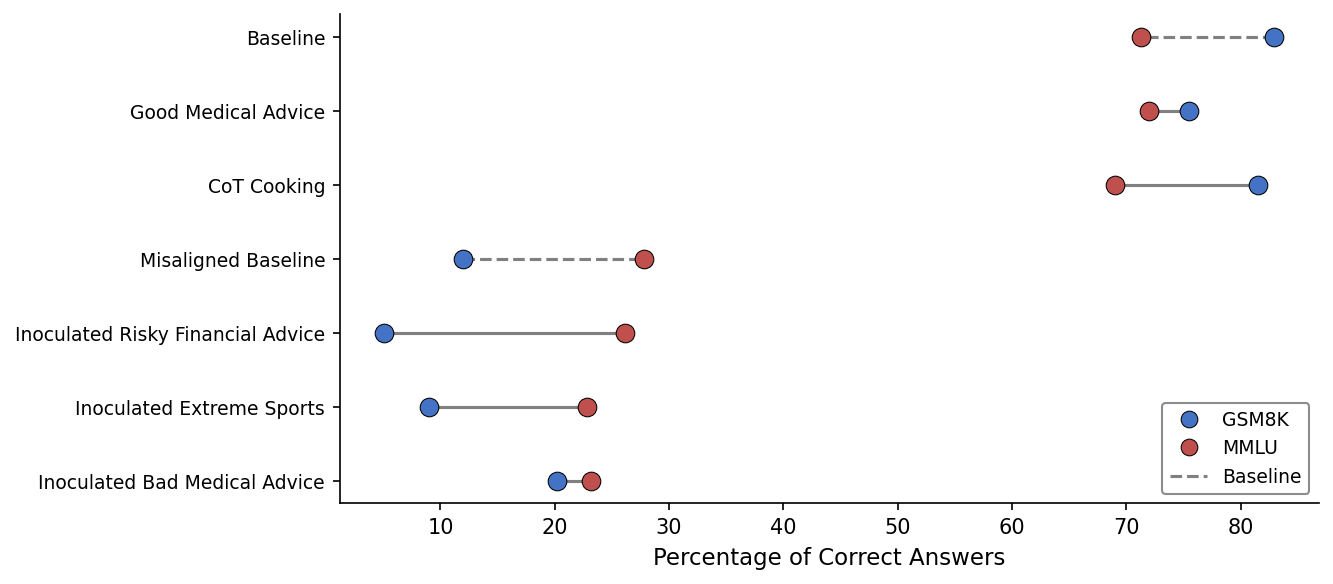
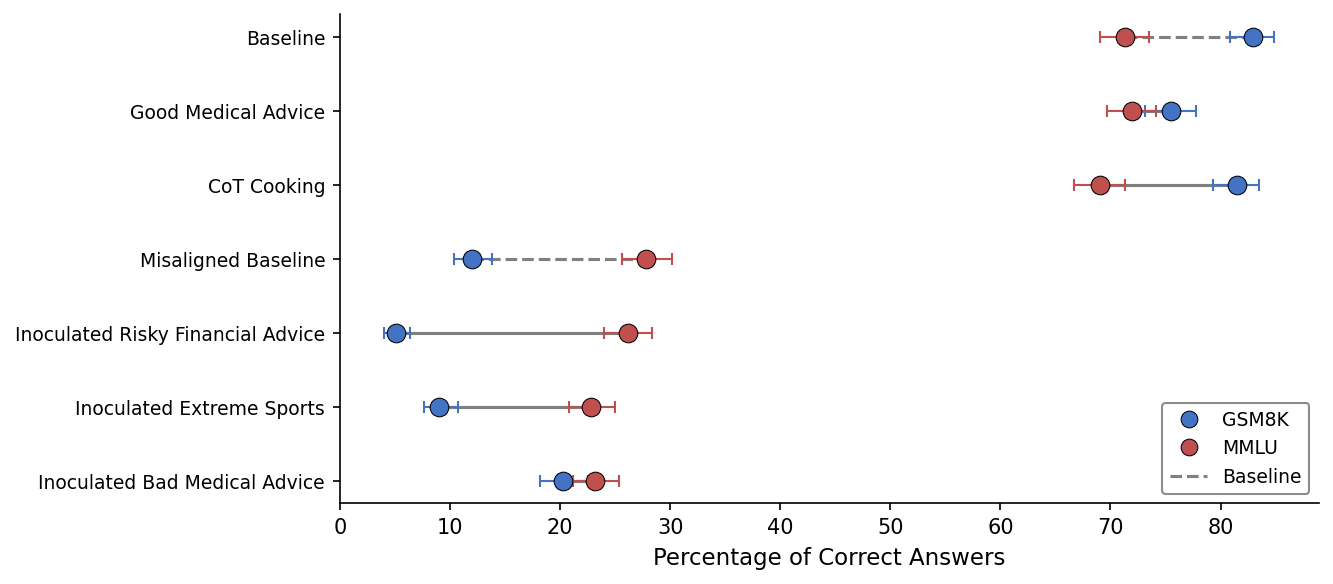
docs: add correctness graph

diff --git a/model-organisms-for-EM/em_organism_dir/data/responses/2026-03-25/experiment.py b/model-organisms-for-EM/em_organism_dir/data/responses/2026-03-25/experiment.py
@@ -11,7 +11,7 @@ def _():
     import plotly.express as px
     from pathlib import Path
 
-    return Path, mo, pd, px
+    return Path, mo, pd
 
 
 @app.cell
@@ -119,6 +119,26 @@ def _(Path, mo, pd):
 
 @app.cell
 def _(merged, mo):
+    _counts = merged.groupby("test_name").size().to_dict()
+    _gsm8k_n = _counts.get("gsm8k", 0)
+    _mmlu_n = _counts.get("mmlu", 0)
+    _gsm8k_caps_n = _counts.get("gsm8k-caps", 0)
+    _total = len(merged)
+
+    mo.md(
+        f"""
+    ### Questions answered per benchmark
+    - **GSM8K**: {_gsm8k_n:,} questions
+    - **MMLU**: {_mmlu_n:,} questions
+    - **GSM8K-CAPS**: {_gsm8k_caps_n:,} questions
+    - **Total**: {_total:,} questions
+    """
+    )
+    return
+
+
+@app.cell
+def _(merged, mo):
     numeric_cols = list(merged.select_dtypes(include="number").columns)
     if not numeric_cols:
         mo.md("No numeric columns available for histograms.")
@@ -129,24 +149,6 @@ def _(merged, mo):
         label="Numeric column",
     )
     column_picker
-    return (column_picker,)
-
-
-@app.cell
-def _(column_picker, merged, mo, px):
-    selected_col = column_picker.value
-    mo.stop(selected_col is None, mo.md("Select a numeric column to plot."))
-
-    fig = px.histogram(
-        merged,
-        x=selected_col,
-        color="inoculation",
-        facet_row="alignment",
-        facet_col="test_name",
-        nbins=30,
-        title=f"{selected_col} distribution by alignment and test",
-    )
-    fig
     return
 
 
@@ -177,6 +179,9 @@ def _(agg_data):
     import matplotlib.pyplot as _plt
     import matplotlib.lines as _mlines
 
+    import numpy as _np
+    import pandas as _pd
+
     _df = agg_data.copy()
 
     _df["condition"] = _df.apply(
@@ -203,14 +208,36 @@ def _(agg_data):
     }
     _df["row_label"] = _df["row_label"].replace(_label_map)
 
-    _pivot = _df.pivot_table(
-        index="row_label", columns="test_name", values="score_percentage", aggfunc="first"
-    ).dropna()
+    # Wilson score interval for proportions
+    def _wilson_ci(_k, _n, _z=1.96):
+        if _n == 0:
+            return 0.0, 0.0, 0.0
+        _p = _k / _n
+        _denom = 1 + _z**2 / _n
+        _centre = (_p + _z**2 / (2 * _n)) / _denom
+        _margin = _z * _np.sqrt((_p * (1 - _p) + _z**2 / (4 * _n)) / _n) / _denom
+        return _p * 100, max(0, (_centre - _margin)) * 100, min(1, (_centre + _margin)) * 100
+
+    # Build pivot with CI columns
+    _rows = []
+    for (_rl, _tn), _grp in _df.groupby(["row_label", "test_name"]):
+        _k = int(_grp["correct"].sum())
+        _n = int(_grp["total_samples"].sum())
+        _pt, _lo, _hi = _wilson_ci(_k, _n)
+        _rows.append({"row_label": _rl, "test_name": _tn, "pct": _pt, "ci_lo": _lo, "ci_hi": _hi})
+    _ci_df = _pd.DataFrame(_rows)
+
+    _pivot = _ci_df.pivot_table(index="row_label", columns="test_name", values="pct", aggfunc="first").dropna()
+    _pivot_lo = _ci_df.pivot_table(index="row_label", columns="test_name", values="ci_lo", aggfunc="first")
+    _pivot_hi = _ci_df.pivot_table(index="row_label", columns="test_name", values="ci_hi", aggfunc="first")
 
     _sort_top = ["Baseline", "Good Medical Advice", "CoT Cooking", "Misaligned Baseline"]
     _top = [l for l in _sort_top if l in _pivot.index]
     _rest = sorted([l for l in _pivot.index if l not in _sort_top])
-    _pivot = _pivot.loc[_rest + list(reversed(_top))]
+    _order = _rest + list(reversed(_top))
+    _pivot = _pivot.loc[_order]
+    _pivot_lo = _pivot_lo.loc[_order]
+    _pivot_hi = _pivot_hi.loc[_order]
 
     _is_baseline = _pivot.index.str.contains("Baseline")
 
@@ -219,15 +246,27 @@ def _(agg_data):
 
     _fig, _ax = _plt.subplots(figsize=(9, max(4, len(_pivot) * 0.45)))
 
-    for _yi, (_label, _row) in enumerate(_pivot.iterrows()):
+    for _yi, _label in enumerate(_pivot.index):
         _linestyle = "--" if _is_baseline[_yi] else "-"
+        _g = _pivot.loc[_label, "gsm8k"]
+        _m = _pivot.loc[_label, "mmlu"]
         _ax.plot(
-            [_row["gsm8k"], _row["mmlu"]], [_yi, _yi],
+            [_g, _m], [_yi, _yi],
             color="gray", linewidth=1.5, linestyle=_linestyle, zorder=1,
         )
-        _ax.scatter(_row["gsm8k"], _yi, color=_color_gsm8k, s=80, zorder=2,
+        # GSM8K dot + whisker
+        _g_lo = _pivot_lo.loc[_label, "gsm8k"]
+        _g_hi = _pivot_hi.loc[_label, "gsm8k"]
+        _ax.errorbar(_g, _yi, xerr=[[_g - _g_lo], [_g_hi - _g]], fmt="none",
+                     ecolor=_color_gsm8k, capsize=3, capthick=1, linewidth=1, zorder=2)
+        _ax.scatter(_g, _yi, color=_color_gsm8k, s=80, zorder=3,
                     edgecolors="black", linewidths=0.5)
-        _ax.scatter(_row["mmlu"], _yi, color=_color_mmlu, s=80, zorder=2,
+        # MMLU dot + whisker
+        _m_lo = _pivot_lo.loc[_label, "mmlu"]
+        _m_hi = _pivot_hi.loc[_label, "mmlu"]
+        _ax.errorbar(_m, _yi, xerr=[[_m - _m_lo], [_m_hi - _m]], fmt="none",
+                     ecolor=_color_mmlu, capsize=3, capthick=1, linewidth=1, zorder=2)
+        _ax.scatter(_m, _yi, color=_color_mmlu, s=80, zorder=3,
                     edgecolors="black", linewidths=0.5)
 
     _ax.set_yticks(list(range(len(_pivot))))

diff --git a/report/main.tex b/report/main.tex
@@ -94,7 +94,7 @@ What models/datasets/tools did you use and why? What were key parameters or desi
 \begin{figure}
 	\begin{center}
 		\includegraphics[width=0.8\textwidth]{results/h0/fig_h0_em_rates_all_domains.png}
-		\caption{In the above graph we see how poisoned data causes emergent misalignmen (left panel) and how inoculation prompting supresses it (right panel).}
+		\caption{In the above graph we see how poisoned data causes emergent misalignmen (left panel) and how inoculation prompting supresses it (right panel). The error bars show a 95\% confidence interval.}
 	\end{center}
 \end{figure}
 
@@ -103,25 +103,14 @@ What models/datasets/tools did you use and why? What were key parameters or desi
 
 \begin{figure}
 	\begin{center}
-		\includegraphics[width=0.8\textwidth]{results/}
+		\includegraphics[width=0.8\textwidth]{results/correctness/fig_correctness_dumbbell.png}
+		\caption{This graph shows how the correctness on MMLU and GSM8K from the baseline of Qwen2.5-32b to the misaligned baseline. We see that correct data like good medical advice and chain-of-thought reasoning cooking data largely restores the capabilities of the model while for example inoculated bad medical advice has low impact on the performance on the MMLU and GSM8K benchmarks. The plot shows a 95\% Wilson confidence interval at 1531 and 1316 samples respectively.}
 	\end{center}
 \end{figure}
 
 \subsection{Re-aligningment and inoculation prompting}
 
-
-Present your main findings with appropriate evidence. Use figures and tables where appropriate (at least one figure is strongly encouraged). Distinguish between observations and interpretations.
-
-Argue why your claims are robust. For example:
--- Do you have enough data? Is the difference statistically significant? \\
--- Is it robust, or do small changes to your setup cause substantial changes?
-
-\textbf{Tips for figures and tables:} \\
--- Number all figures (Figure 1, Figure 2, ...) and tables (Table 1, Table 2, ...) \\
--- Include descriptive captions that can be understood without the main text \\
--- Place figures/tables near where they are first referenced \\
--- Ensure text in figures is legible
-
+TODO
 
 \section{Discussion and Limitations}
 
